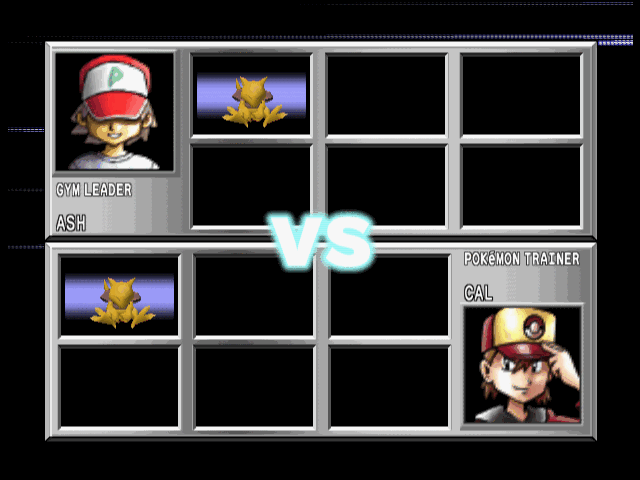
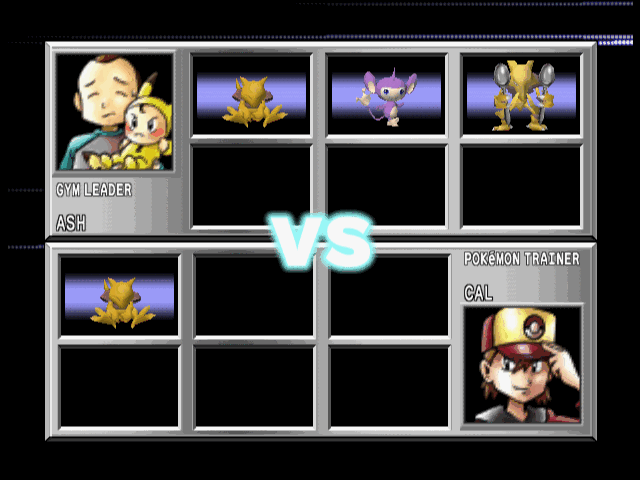
Front page: the versus picture shows the trainer chosen beside it
The picture of a chosen trainer before a battle was a test's screenshot,
which sets a name and a title and keeps the default picture. Next to the
trainer window, where another picture is being chosen, it looked as if the
choice had not been kept. It is taken again in the same sitting as the
window: the same picture, name, title and team.

diff --git a/mod/NOTES.md b/mod/NOTES.md
@@ -917,10 +917,13 @@ and whoever has the ROM attaches the patch they built:
   `.github/`. Its screenshots are in `mod/images/`: test screenshots from
   `.emu/test/remote`, reduced to 256 colours with Pillow
   (`image.quantize(256, method=Image.Quantize.FASTOCTREE)`, saved with `optimize=True`),
-  which gives the same bytes every time. Five are shots the emulator tests take:
-  `menu` is `edit_entry`, `editor` is `fields_shiny`, `moves` is `list_hidden_power`,
-  `keyboard` is `keyboard_upper`, and `versus` is `versus_named`; `team_menu`, `team`
-  and `trainer` were taken by hand with three rentals on the team. Before a release,
+  which gives the same bytes every time. Four are shots the emulator tests take:
+  `menu` is `edit_entry`, `editor` is `fields_shiny`, `moves` is `list_hidden_power`
+  and `keyboard` is `keyboard_upper`. `team_menu`, `team`, `trainer` and `versus` were
+  taken by hand in one sitting, with three rentals on the team, so that they tell one
+  story: `versus` has to show the picture, name and title that `trainer` shows being
+  chosen (the tests' own `versus_named` keeps the default picture, and beside the
+  window it looks as if the choice had not been kept). Before a release,
   reduce the tests' fresh shots the same way and compare: a picture that no longer
   comes out the same is out of date (`moves` was, for v0.2.0, by one number).
 - **Why a changelog by hand.** After a rebase every commit of the mod is new, and between
